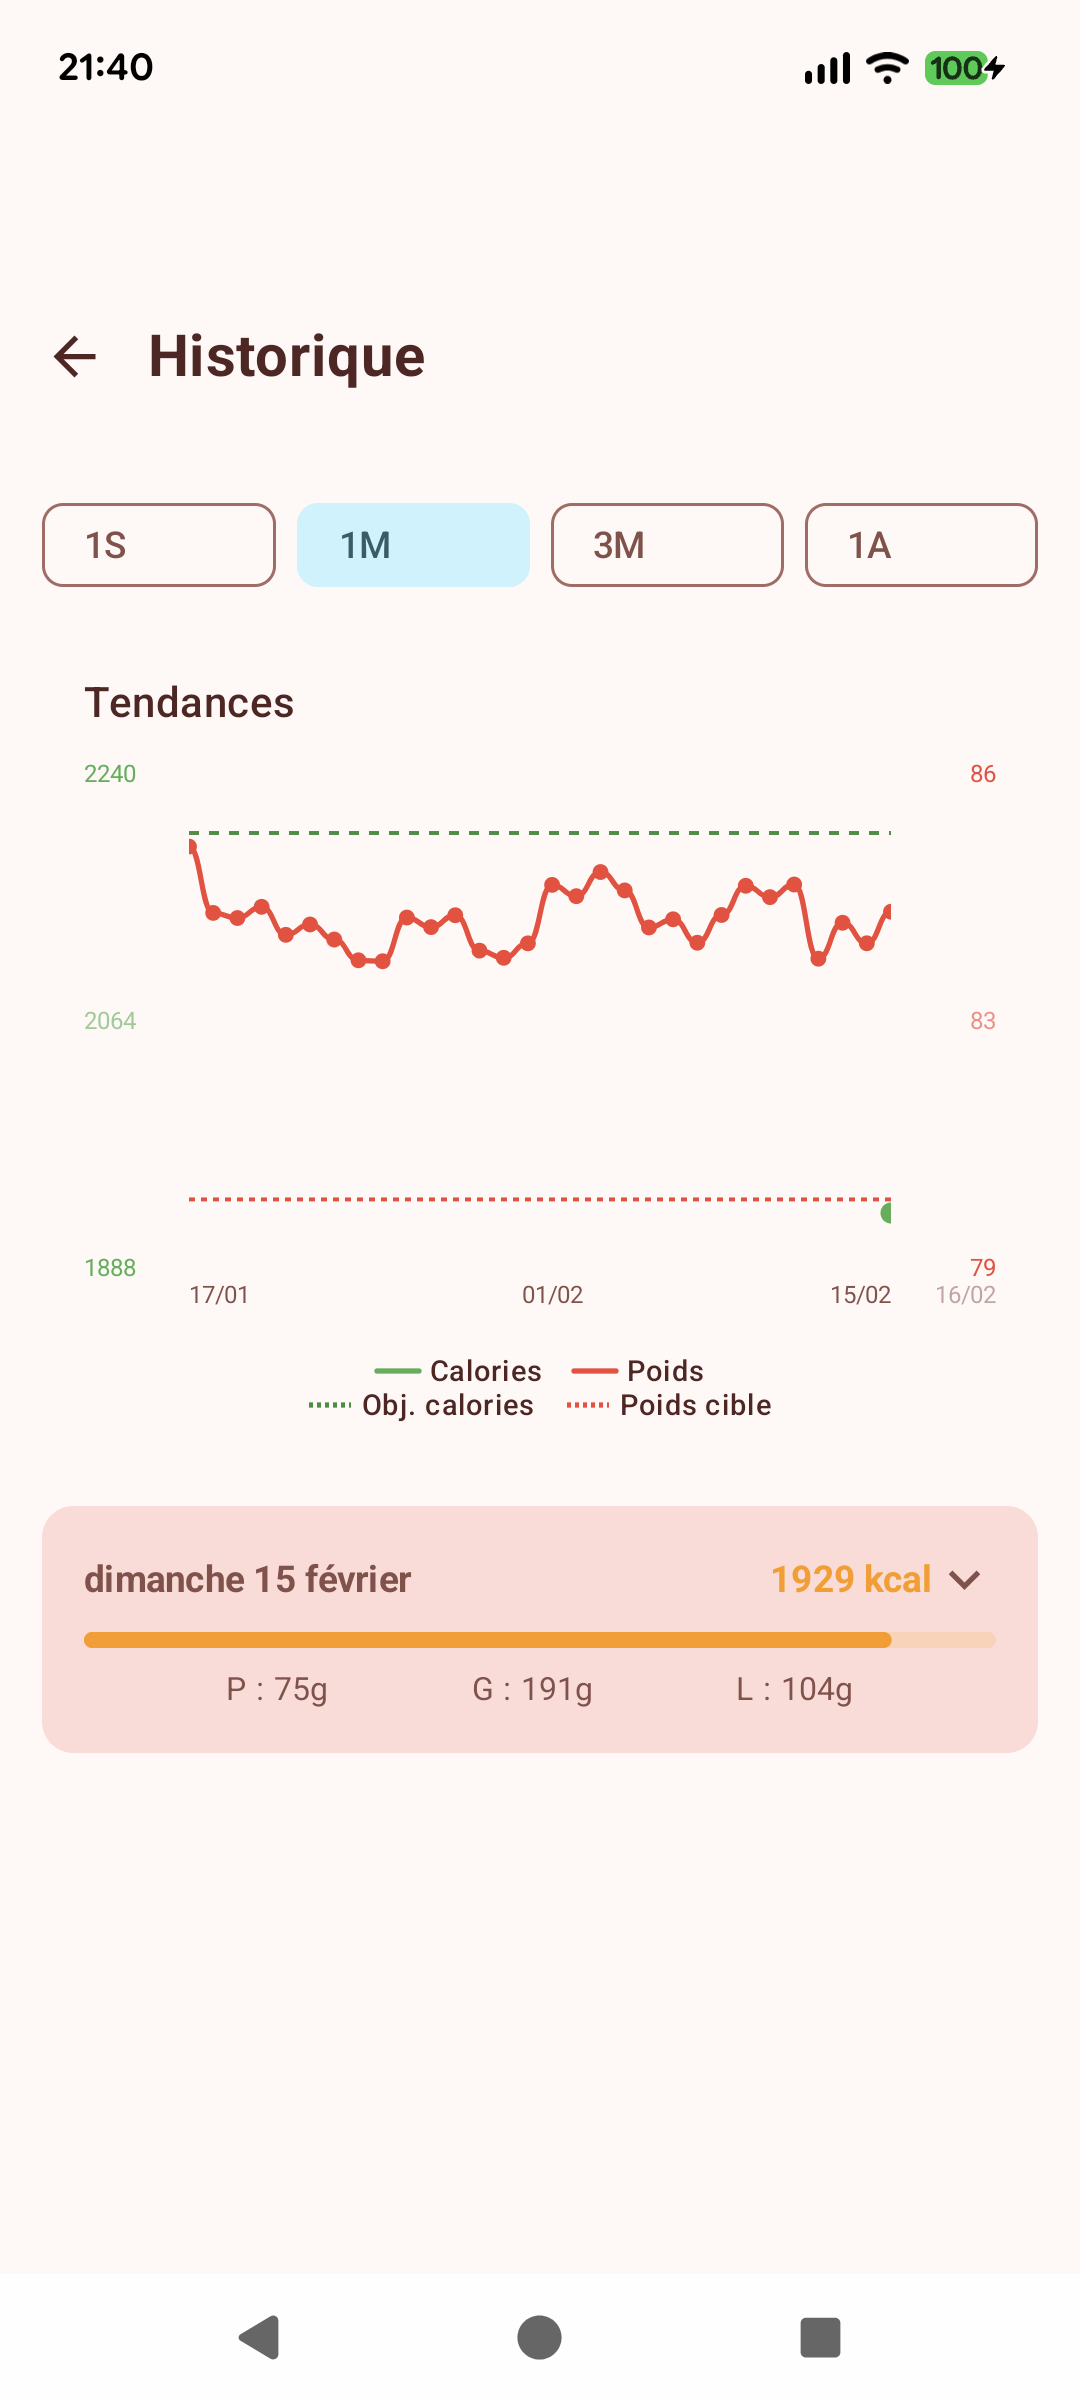
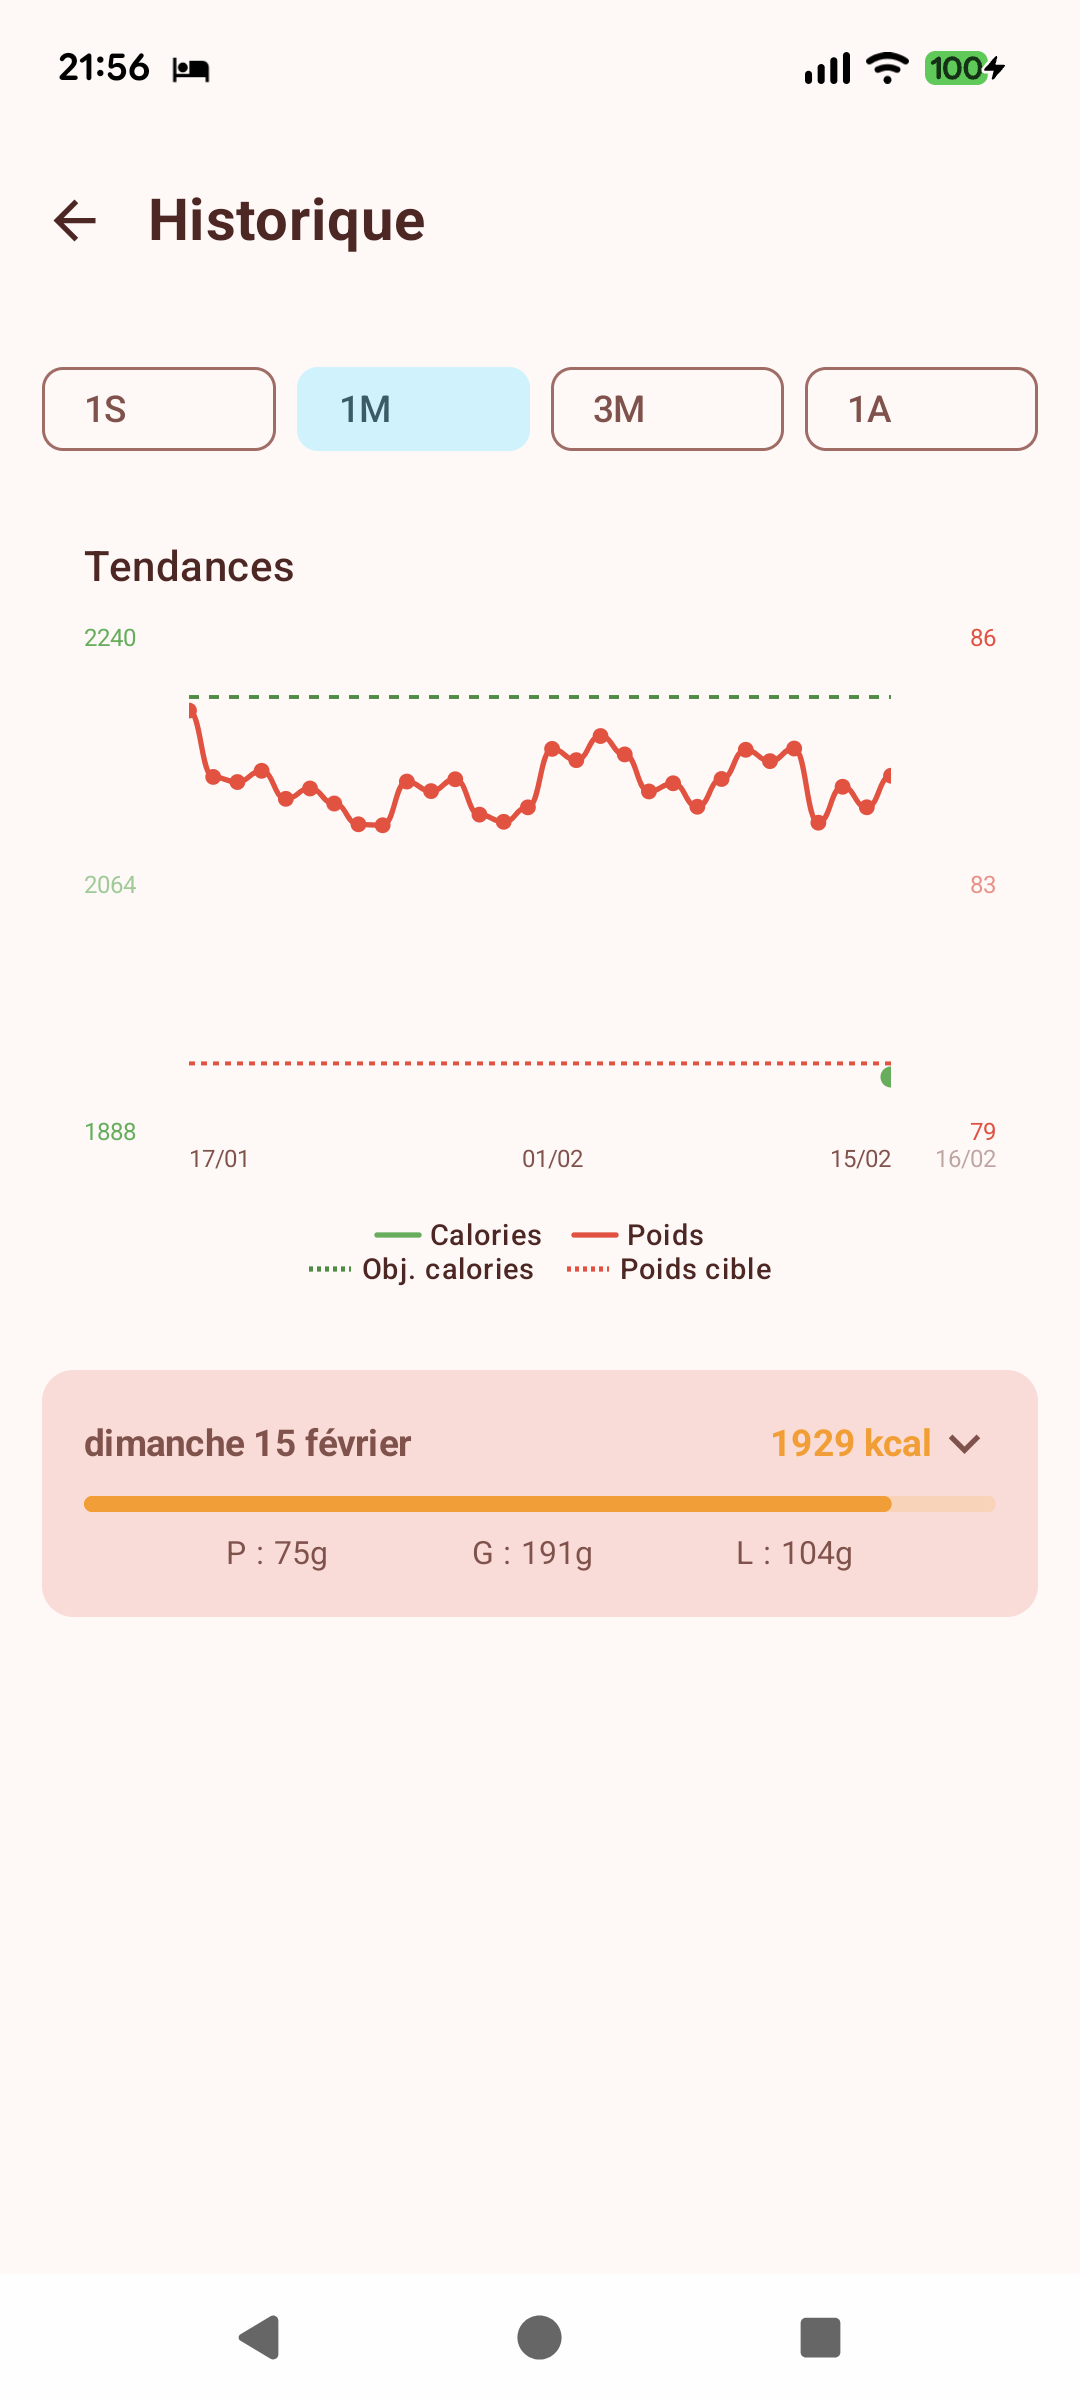
Update screenshots and fix NavHost bottom padding
- Refresh all screenshots with latest app version
- Add profile screenshot to README
- Use fixed 5.dp bottom padding instead of innerPadding for NavHost

diff --git a/app/src/main/java/com/ghostwan/snapcal/presentation/navigation/NavGraph.kt b/app/src/main/java/com/ghostwan/snapcal/presentation/navigation/NavGraph.kt
@@ -1,5 +1,7 @@
 package com.ghostwan.snapcal.presentation.navigation
 
+import androidx.compose.foundation.layout.PaddingValues
+import androidx.compose.foundation.layout.consumeWindowInsets
 import androidx.compose.foundation.layout.padding
 import androidx.compose.material.icons.Icons
 import androidx.compose.material.icons.filled.Dashboard
@@ -15,7 +17,9 @@ import androidx.compose.runtime.getValue
 import androidx.compose.ui.Modifier
 import androidx.compose.ui.graphics.vector.ImageVector
 import androidx.compose.ui.platform.LocalContext
+import androidx.compose.ui.platform.LocalLayoutDirection
 import androidx.compose.ui.res.stringResource
+import androidx.compose.ui.unit.dp
 import androidx.lifecycle.viewmodel.compose.viewModel
 import androidx.navigation.NavDestination.Companion.hierarchy
 import androidx.navigation.NavGraph.Companion.findStartDestination
@@ -67,6 +71,7 @@ fun SnapCalNavGraph() {
         )
     )
 
+    val layoutDirection = LocalLayoutDirection.current
     val navBackStackEntry by navController.currentBackStackEntryAsState()
     val currentRoute = navBackStackEntry?.destination?.route
     val showBottomBar = currentRoute !in noBottomBarRoutes
@@ -98,7 +103,14 @@ fun SnapCalNavGraph() {
         NavHost(
             navController = navController,
             startDestination = "dashboard",
-            modifier = Modifier.padding(innerPadding)
+            modifier = Modifier
+                .padding(
+                    start = innerPadding.calculateLeftPadding(layoutDirection),
+                    top = innerPadding.calculateTopPadding(),
+                    end = innerPadding.calculateRightPadding(layoutDirection),
+                    bottom = 5.dp
+                )
+                .consumeWindowInsets(innerPadding)
         ) {
             composable("dashboard") {
                 val dashboardViewModel: DashboardViewModel = viewModel(

diff --git a/README.md b/README.md
@@ -8,6 +8,7 @@ A free, open-source alternative to [Foodvisor](https://www.foodvisor.io/). Take 
   <img src="screenshots/dashboard.png" width="200" alt="Dashboard" />
   <img src="screenshots/scanner.png" width="200" alt="Scanner" />
   <img src="screenshots/history.png" width="200" alt="History" />
+  <img src="screenshots/profile.png" width="200" alt="Profile" />
   <img src="screenshots/reminders.png" width="200" alt="Meal Reminders" />
 </p>
 
